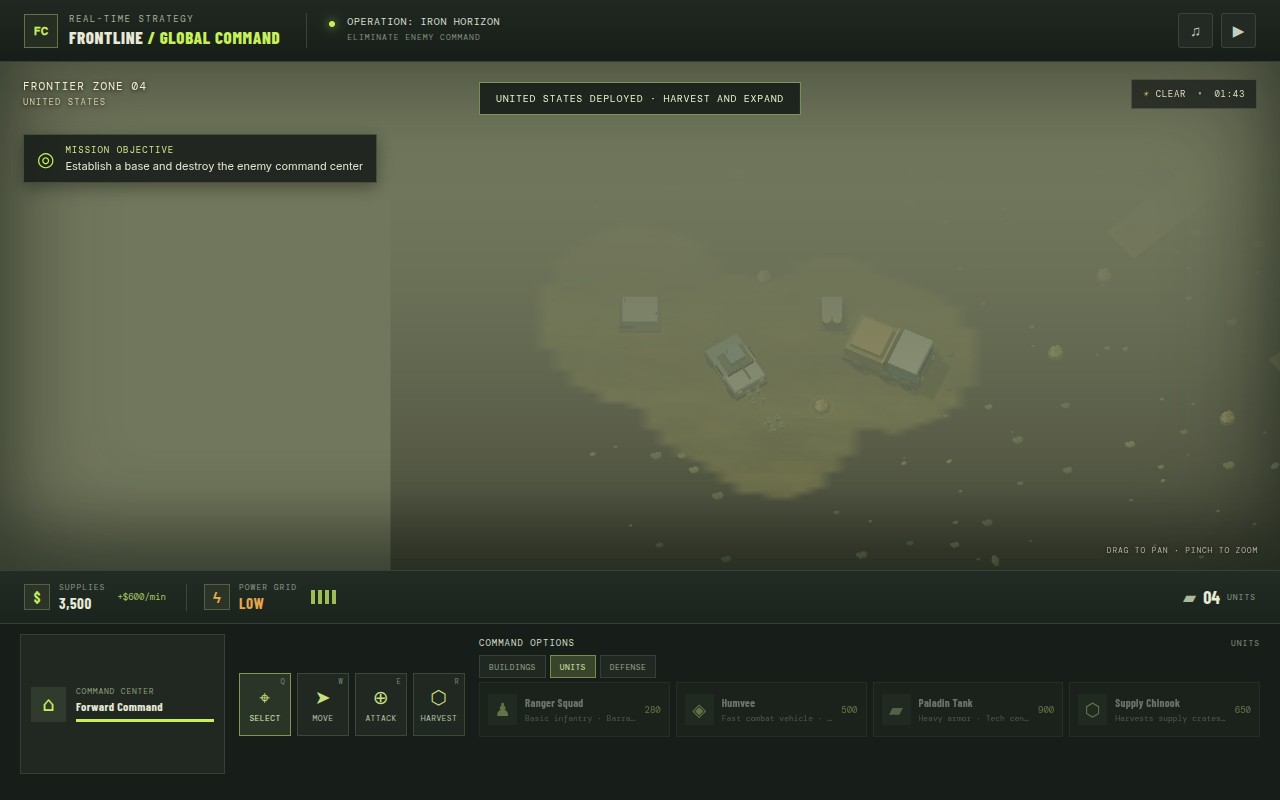
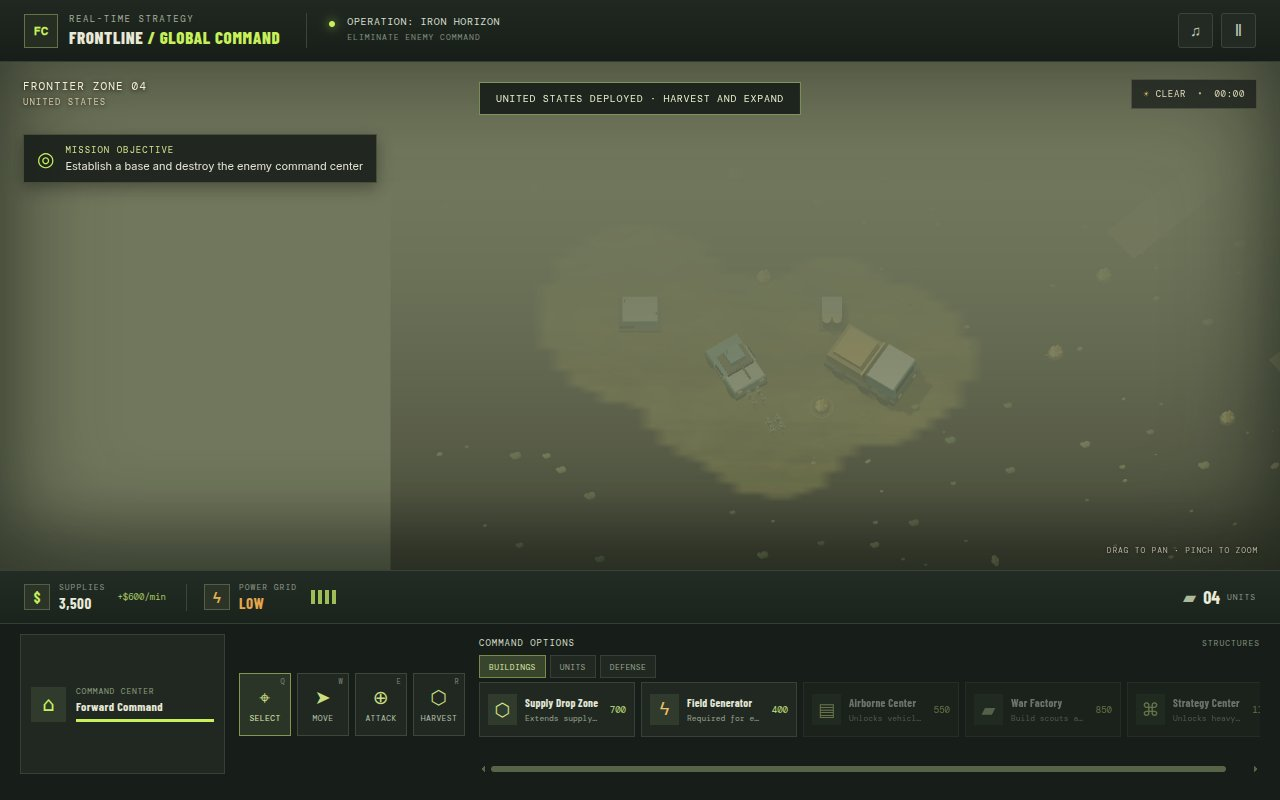
Publish static build for issue #41
Run: 43367046876
Attempt: 1
Generation: 7
Source: 68f97d17d575bc62b30063ae681ae9aaf6a3f070

diff --git a/renderer3d.js b/renderer3d.js
@@ -315,7 +315,7 @@ export function createBattlefield(canvas) {
     }
     let changed = false;
     for (let i = 0; i < discovered.length; i++) {
-      const alpha = visibleCells[i] ? 0 : discovered[i] ? 168 : 248;
+      const alpha = discovered[i] ? 0 : 248;
       const p = i * 4;
       if (fogPixels.data[p] !== 0 || fogPixels.data[p + 1] !== 0 || fogPixels.data[p + 2] !== 0 || fogPixels.data[p + 3] !== alpha) {
         fogPixels.data[p] = fogPixels.data[p + 1] = fogPixels.data[p + 2] = 0;
